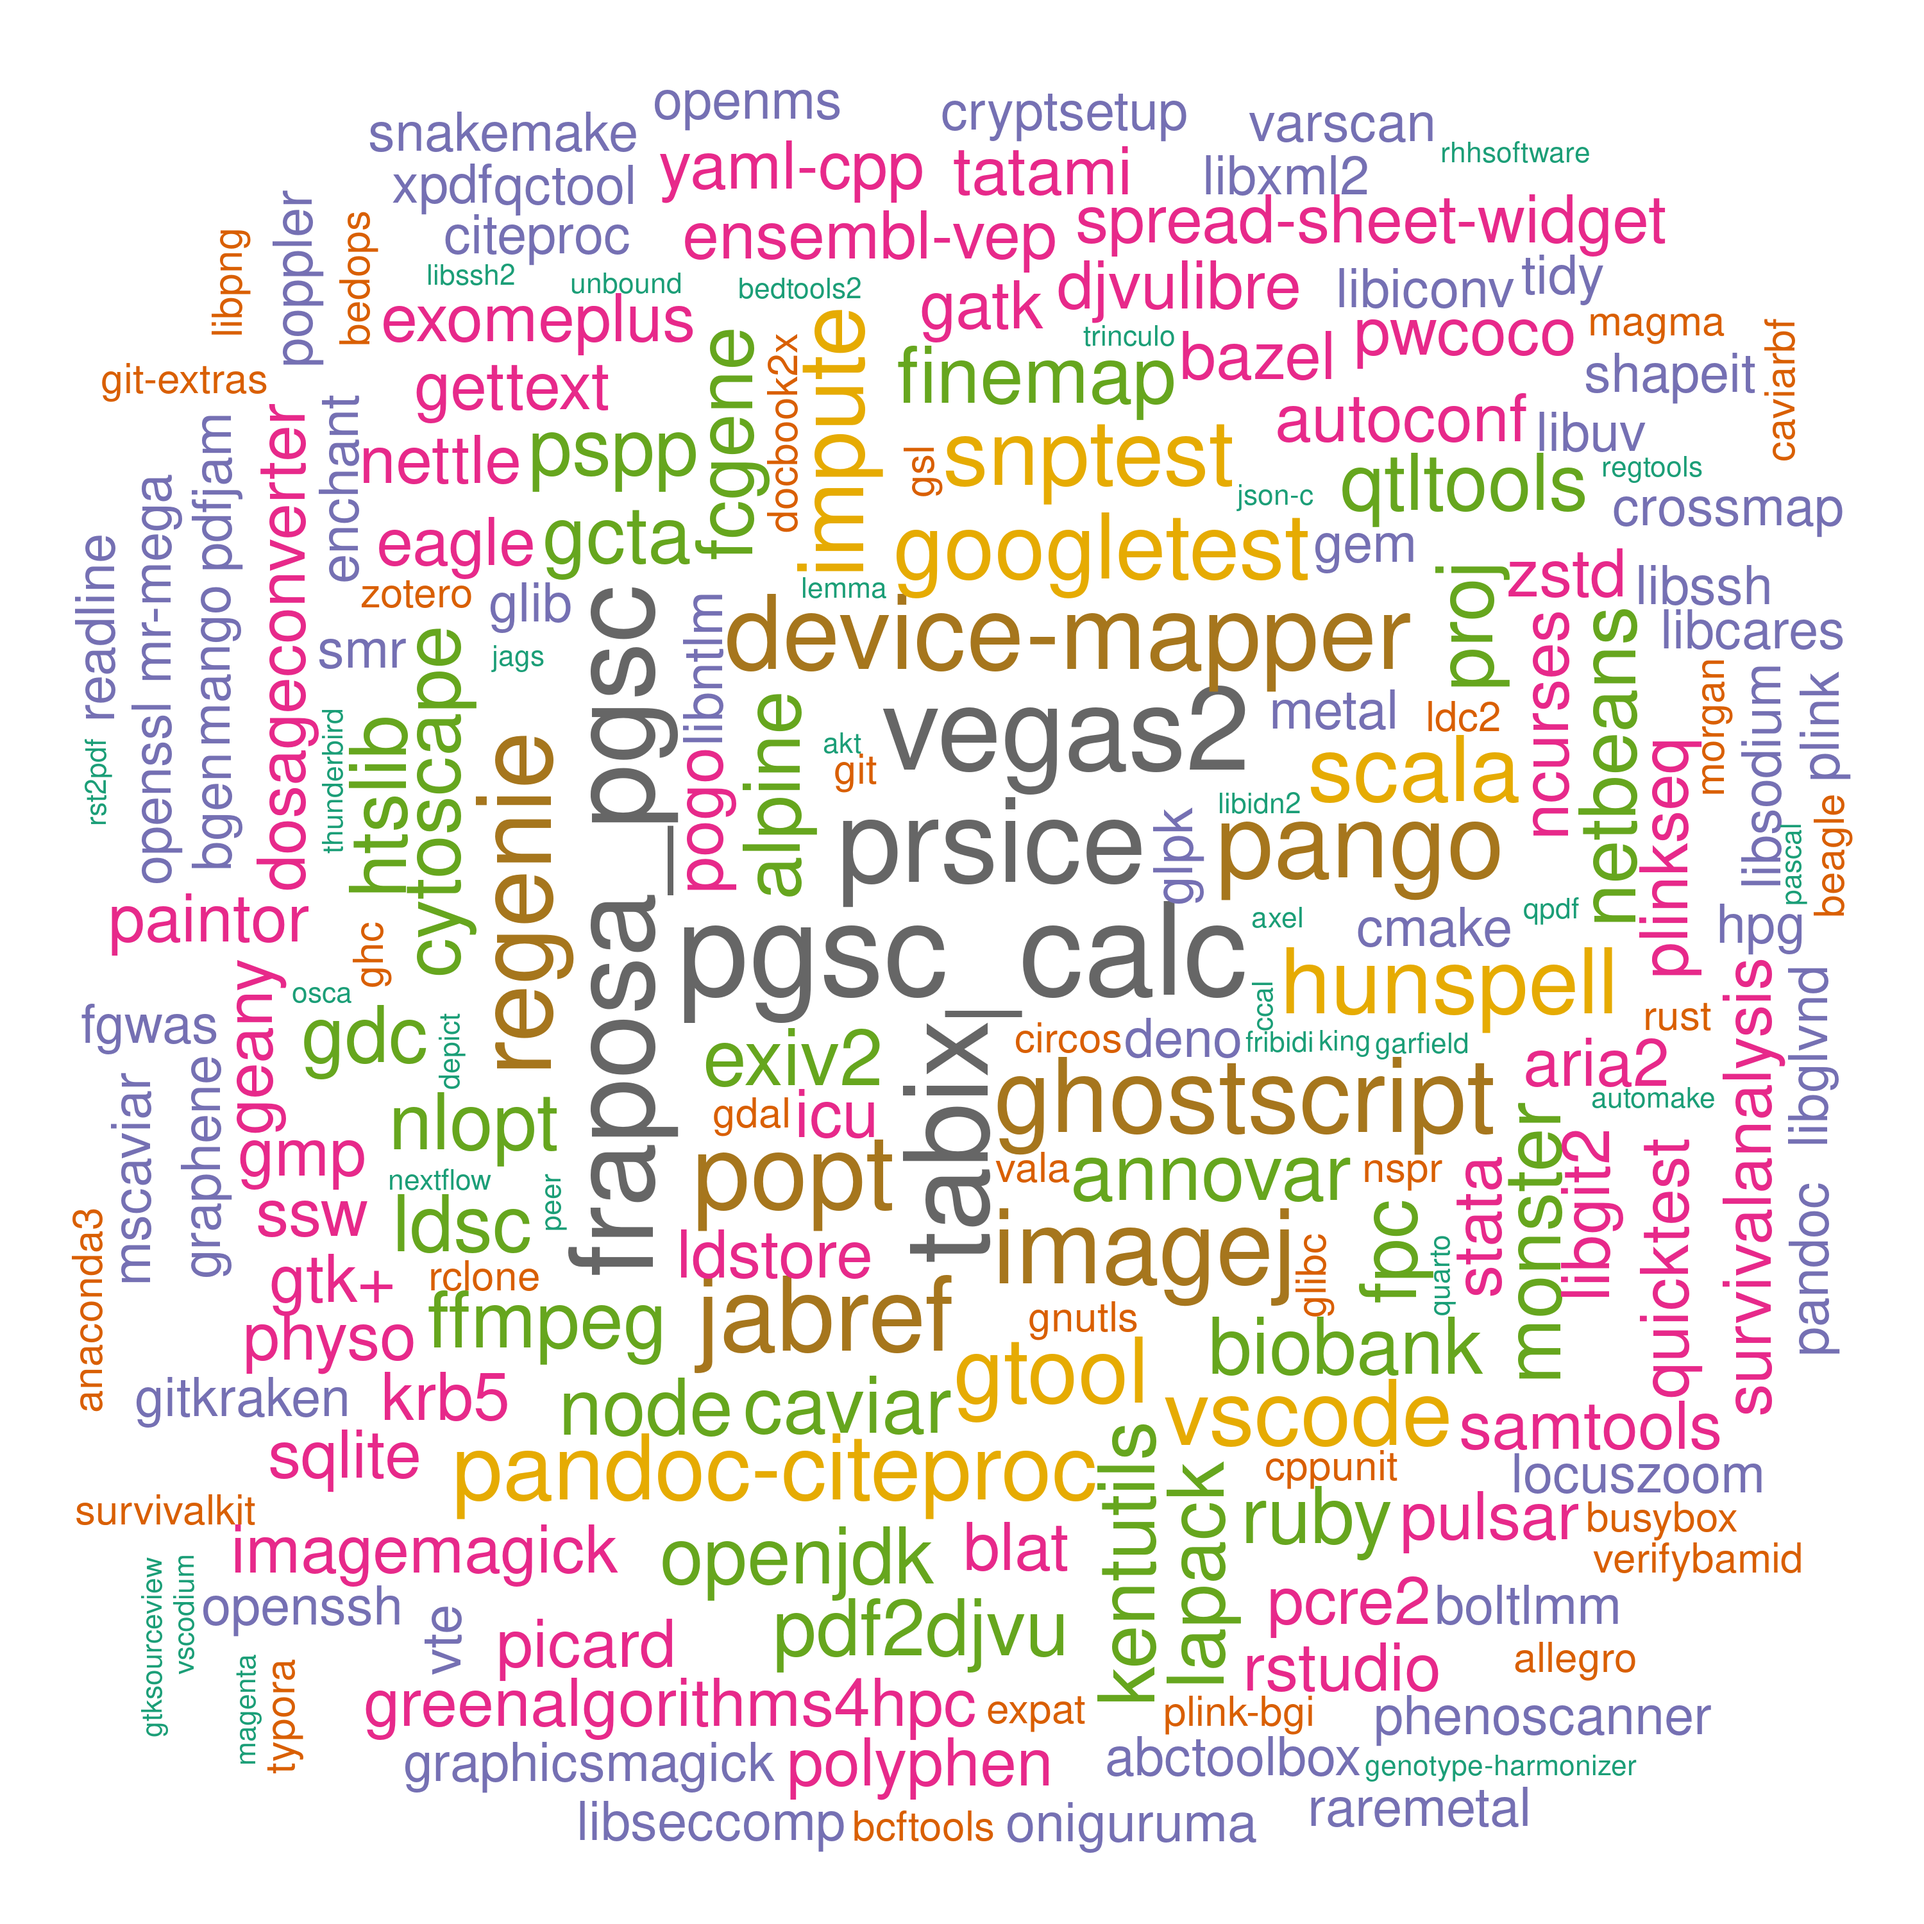
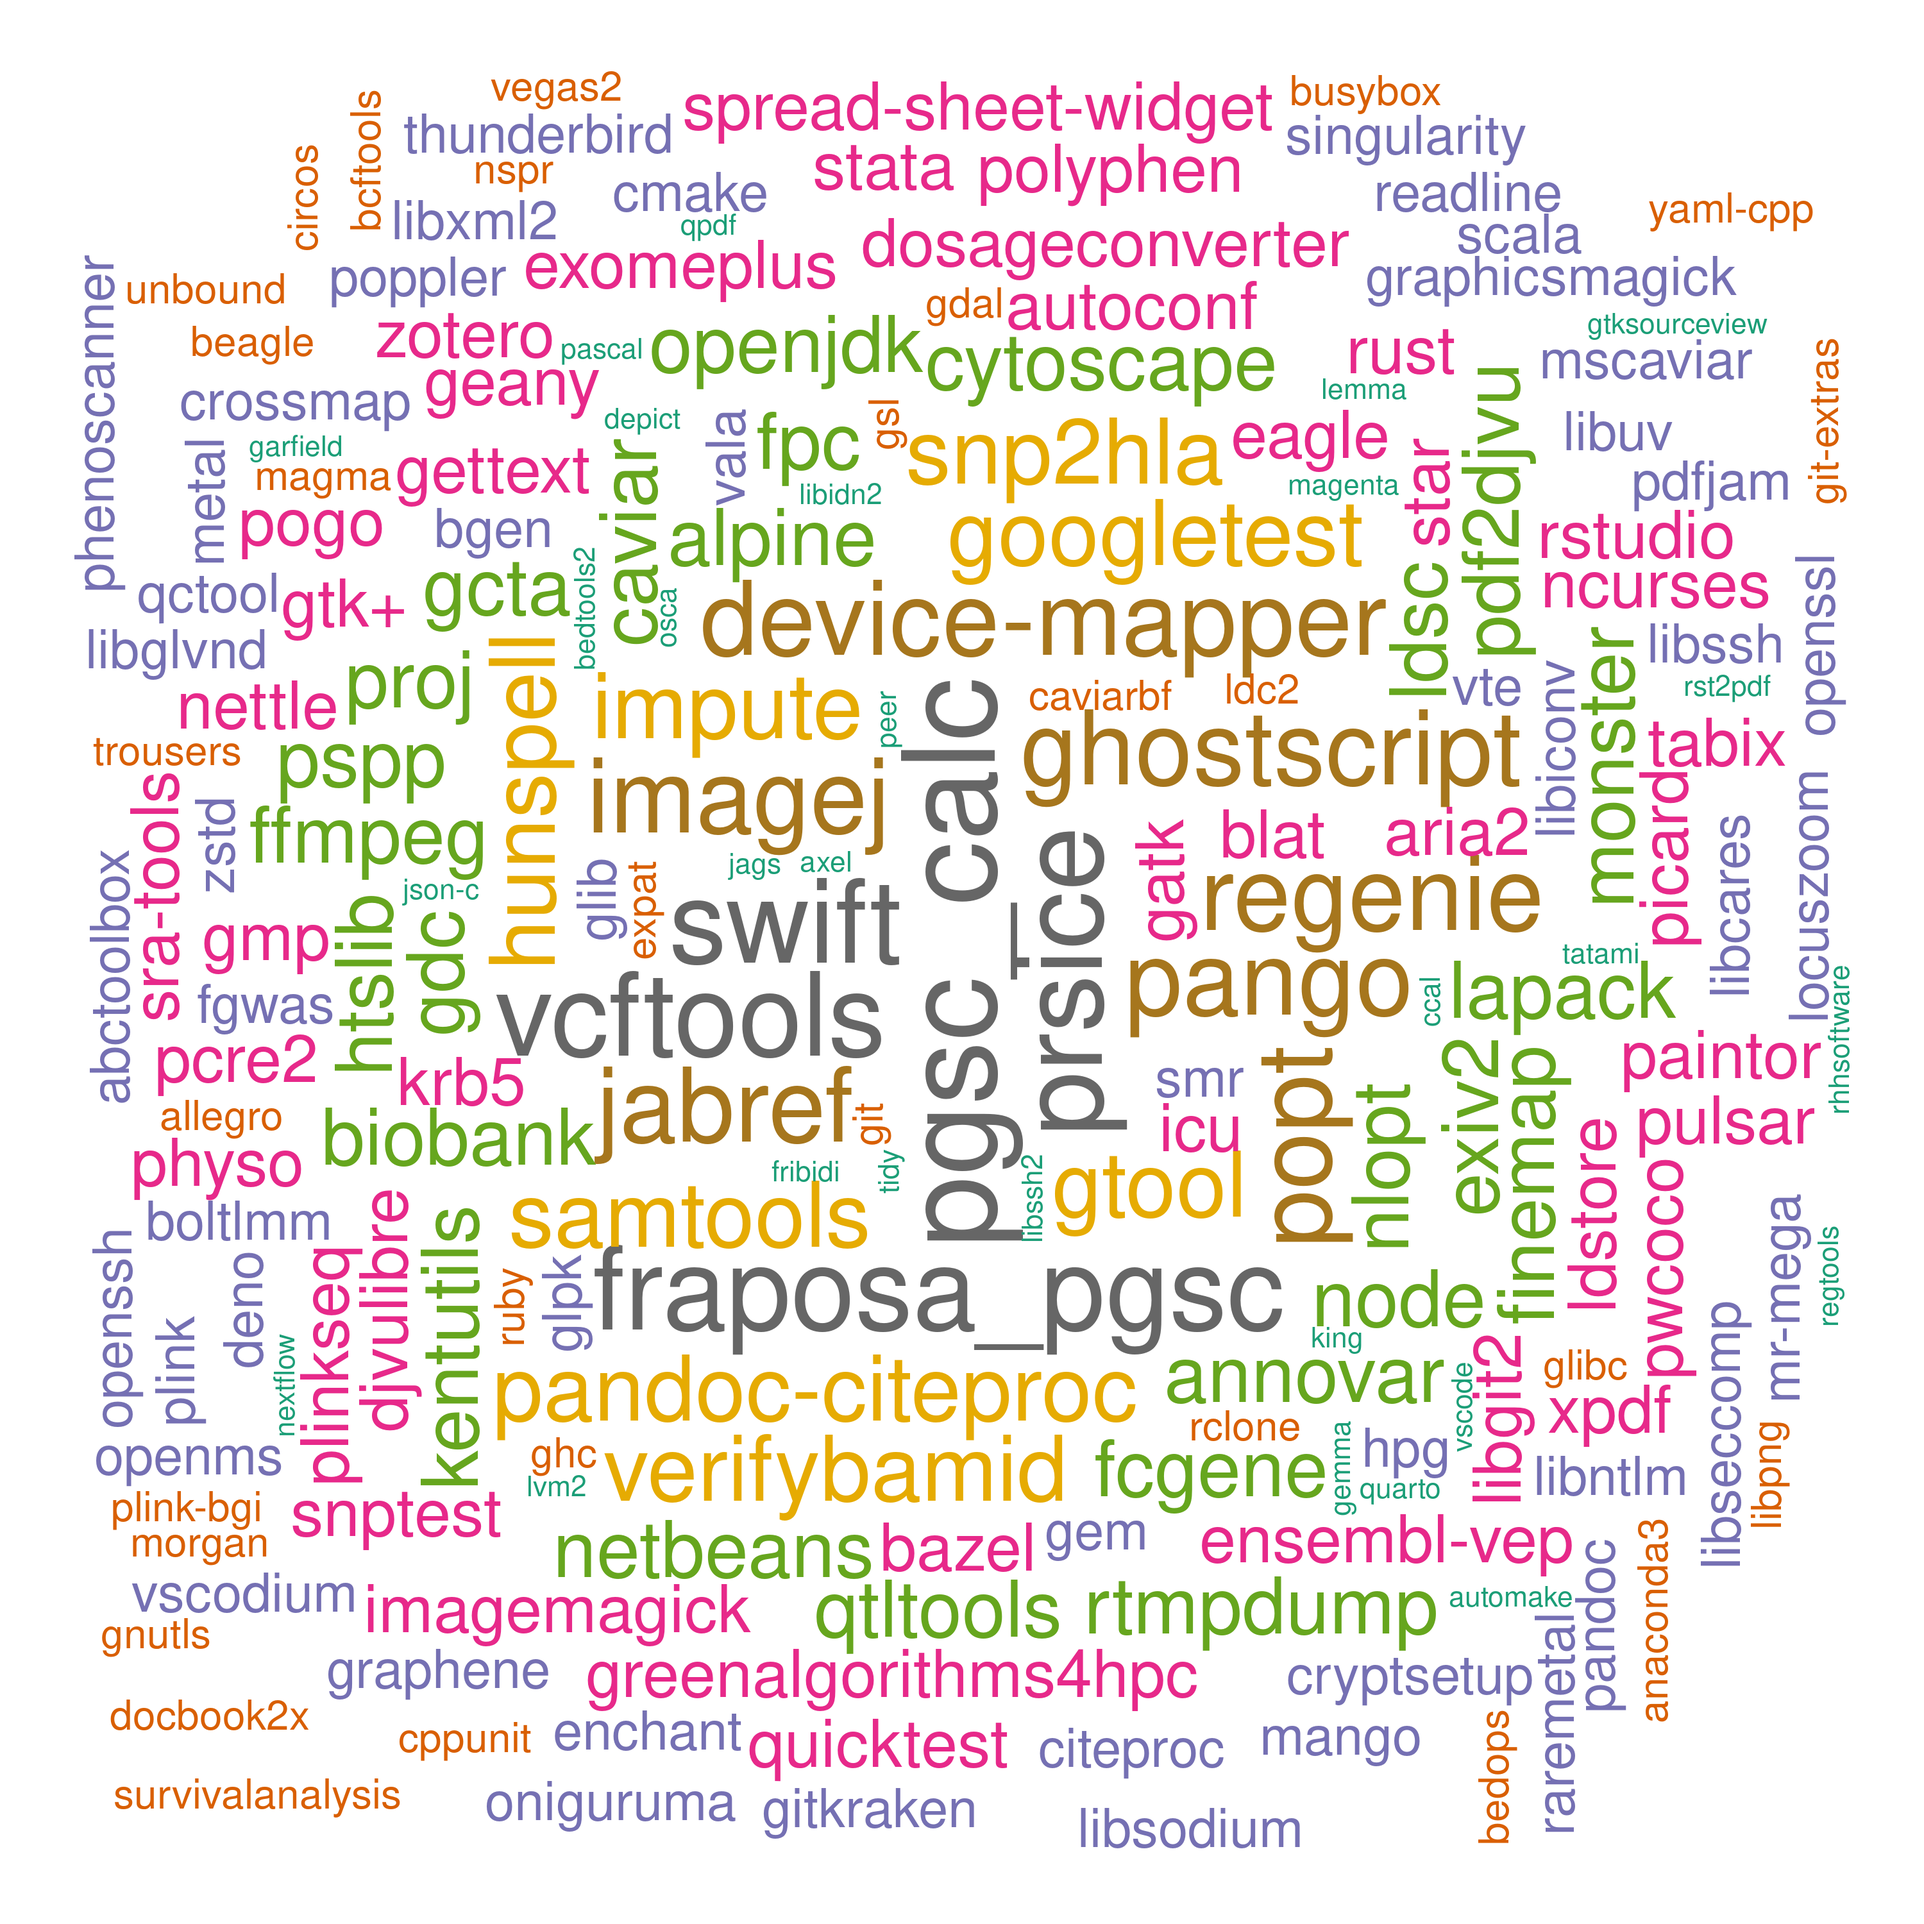
./

Changed region(s): [[0.031, 0.031, 0.961, 0.961]]

diff --git a/systems/setup.md b/systems/setup.md
@@ -244,31 +244,33 @@ All entries are ordered chronologically.
 | ""          | deno/1.40.2-icelake              | Generic              |
 | ""          | quarto/1.4.549                   | Generic              |
 | 2024-02-29  | R/4.3.3                          | Generic[^R]          |
-! 2024-03-01  | glpk/5.0                         | Generic              |
-! 2024-03-02  | glpk/4.57                        | Generic              |
-! 2024-03-04  | rstudio/2023.12.1-402            | Generic              |
-! 2024-03-05  | GitKraken/9.12.0                 | Generic[^gitkraken]  |
-! ""          | automake/1.16.5                  | Generic[^automake]   |
-! ""          | pspp/2.0.0                       | Generic              |
-! 2024-03-09  | Scala/3.3.3                      | Generic              |
-! 2024-03-10  | fpc/3.2.2                        | Generic              |
-! ""          | Swift/5.10                       | Generic              |
-! ""          | pulsar/1.114.0                   | Generic              |
-! ""          | VSCodium/1.87.1.24068            | Generic              |
-! 2024-03-27  | openssl/3.2.1-icelake            | Generic[^openssl]    |
-! ""          | openssh/9.7p1-icelake            | Generic[^openssh]    |
-! 2024-03-31  | ensembl-vep/111-icelake          | Genetics[^vep]       |
-! 2024-04-01  | json-c/0.17-20230812-icelake     | Generic[^json-c]     |
-! ""          | device-mapper/1.02.28-icelake    | Generic              |
-! ""          | LVM2/2.03.23-icelake             | Generic[^LVM2]       |
-! 2024-04-02  | cryptsetup/2.7.1-icelake         | Generic[^cryptsetup] |
-! 2024-04-05  | krb5/1.21.2-icelake              | Generic[^krb5]       |
-! ""          | git/1.44.0-icelake               | Generic[^git]        |
-! ""          | openssl/1.1.1b-icelake           | Generic              |
-! ""          | libssh2/1.11.0-icelake           | Generic              |
-! ""          | libssh/0.10.6-icelake            | Generic              |
-! 2024-04-22  | peer/1.3                         | Generic[^peer]       |
-! 2024-04-29  | ImageMagick/7.1.1-31             | Generic[^ImageMagick]|
+| 2024-03-01  | glpk/5.0                         | Generic              |
+| 2024-03-02  | glpk/4.57                        | Generic              |
+| 2024-03-04  | rstudio/2023.12.1-402            | Generic              |
+| 2024-03-05  | GitKraken/9.12.0                 | Generic[^gitkraken]  |
+| ""          | automake/1.16.5                  | Generic[^automake]   |
+| ""          | pspp/2.0.0                       | Generic              |
+| 2024-03-09  | Scala/3.3.3                      | Generic              |
+| 2024-03-10  | fpc/3.2.2                        | Generic              |
+| ""          | Swift/5.10                       | Generic              |
+| ""          | pulsar/1.114.0                   | Generic              |
+| ""          | VSCodium/1.87.1.24068            | Generic              |
+| 2024-03-27  | openssl/3.2.1-icelake            | Generic[^openssl]    |
+| ""          | openssh/9.7p1-icelake            | Generic[^openssh]    |
+| 2024-03-31  | ensembl-vep/111-icelake          | Genetics[^vep]       |
+| 2024-04-01  | json-c/0.17-20230812-icelake     | Generic[^json-c]     |
+| ""          | device-mapper/1.02.28-icelake    | Generic              |
+| ""          | LVM2/2.03.23-icelake             | Generic[^LVM2]       |
+| 2024-04-02  | cryptsetup/2.7.1-icelake         | Generic[^cryptsetup] |
+| 2024-04-05  | krb5/1.21.2-icelake              | Generic[^krb5]       |
+| ""          | git/1.44.0-icelake               | Generic[^git]        |
+| ""          | openssl/1.1.1b-icelake           | Generic              |
+| ""          | libssh2/1.11.0-icelake           | Generic              |
+| ""          | libssh/0.10.6-icelake            | Generic              |
+| 2024-04-22  | peer/1.3                         | Generic[^peer]       |
+| 2024-04-29  | ImageMagick/7.1.1-31             | Generic[^ImageMagick]|
+| 2024-05-15  | rtmpdump/2.3                     | Generic[^rtmnpdump]  |
+
 
 \* CEU or approved users only.
 
@@ -917,4 +919,19 @@ Rscript -e '
     ./configure --prefix=$CEUADMIN/ImageMagick/7.1.1-31
     make
     make install
+    ```
+[^rtmpdump]: **rtmpdump**
+
+    It is necessary for `RCurl 1.98-1.14`. With `curl-7.63.0-gcc-5.4.0-4uswlql` we could also install `rtracklayer 1.94.0`.
+
+    ```bash
+    wget -qO- https://rtmpdump.mplayerhq.hu/download/rtmpdump-2.3.tgz |\
+    tar xvfz -
+    cd rtmpdump-2.3
+    sed -i 's|/usr/local|/usr/local/Cluster-Apps/ceuadmin/rtmpdump/2.3|' Makefile
+    sed -i 's|/usr/local|/usr/local/Cluster-Apps/ceuadmin/rtmpdump/2.3|' librtmp/Makefile
+    make
+    make install
+    Rscript -e 'install.packages("RCurl")'
+    Rscript -e 'BiocManager::install("rtracklayer")'
     ```

diff --git a/systems/ceuadmin.md b/systems/ceuadmin.md
@@ -8,7 +8,7 @@ The CEU software repository is here, **/usr/local/Cluster-Apps/ceuadmin/**.
 
 ![ceuadmin](ceuadmin.png)
 
-noting that the importance of software is purely random according to $$Poisson(N,\lambda)$$ where $$N=225$$, $$\lambda=3$$.
+noting that the importance of software is purely random according to $$Poisson(N,\lambda)$$ where $$N=226$$, $$\lambda=3$$.
 
 ## Entries
 
@@ -61,17 +61,17 @@ The current list is as follows,
 [173] "qt"                    "qtcreator"             "QTLtools"              "quarto"
 [177] "quicktest"             "R"                     "raremetal"             "rclone"
 [181] "readline"              "regenie"               "regtools"              "RHHsoftware"
-[185] "rst2pdf"               "rstudio"               "ruby"                  "rust"
-[189] "samtools"              "Scala"                 "shapeit"               "singularity"
-[193] "SMR"                   "snakemake"             "SNP2HLA"               "snptest"
-[197] "spread-sheet-widget"   "sqlite"                "sra-tools"             "ssw"
-[201] "STAR"                  "stata"                 "SurvivalAnalysis"      "SurvivalKit"
-[205] "Swift"                 "tabix"                 "tatami"                "thunderbird"
-[209] "tidy"                  "trinculo"              "trousers"              "Typora"
-[213] "unbound"               "vala"                  "VarScan"               "vcftools"
-[217] "VEGAS2"                "verifyBamID"           "VSCode"                "VSCodium"
-[221] "vte"                   "xpdf"                  "yaml-cpp"              "Zotero"
-[225] "zstd"
+[185] "rst2pdf"               "rstudio"               "rtmpdump"              "ruby"
+[189] "rust"                  "samtools"              "Scala"                 "shapeit"
+[193] "singularity"           "SMR"                   "snakemake"             "SNP2HLA"
+[197] "snptest"               "spread-sheet-widget"   "sqlite"                "sra-tools"
+[201] "ssw"                   "STAR"                  "stata"                 "SurvivalAnalysis"
+[205] "SurvivalKit"           "Swift"                 "tabix"                 "tatami"
+[209] "thunderbird"           "tidy"                  "trinculo"              "trousers"
+[213] "Typora"                "unbound"               "vala"                  "VarScan"
+[217] "vcftools"              "VEGAS2"                "verifyBamID"           "VSCode"
+[221] "VSCodium"              "vte"                   "xpdf"                  "yaml-cpp"
+[225] "Zotero"                "zstd"
 ```
 
 These are wrapped up as :star::star::star: **[modules](https://modules.readthedocs.io/en/latest/index.html)** :star::star::star:.

diff --git a/R/rtracklayer.md b/R/rtracklayer.md
@@ -1,0 +1,21 @@
+---
+sort: 29
+---
+
+# rtracklayer
+
+Under cclake, modules `ceuadmin/rtmpdump/2.3` and `curl-7.63.0-gcc-5.4.0-4uswlql` are both required, since `librtmp.so.0` is needed for `RCurl 1.98-1.14` and the latter for `rtracklayer 1.64.0`.
+
+Quoting from <https://cambridge-ceu.github.io/csd3/systems/setup.html>, the details are as follows,
+
+```bash
+wget -qO- https://rtmpdump.mplayerhq.hu/download/rtmpdump-2.3.tgz |\
+tar xvfz -
+cd rtmpdump-2.3
+sed -i 's|/usr/local|/usr/local/Cluster-Apps/ceuadmin/rtmpdump/2.3|' Makefile
+sed -i 's|/usr/local|/usr/local/Cluster-Apps/ceuadmin/rtmpdump/2.3|' librtmp/Makefile
+make
+make install
+Rscript -e 'install.packages("RCurl")'
+Rscript -e 'BiocManager::install("rtracklayer")'
+```

diff --git a/R/tenXplore.md b/R/tenXplore.md
@@ -1,5 +1,5 @@
 ---
-sort: 34
+sort: 35
 ---
 
 # tenXplore

diff --git a/R/SPACox.md b/R/SPACox.md
@@ -1,5 +1,5 @@
 ---
-sort: 33
+sort: 34
 ---
 
 # SPACox

diff --git a/R/snpnet.md b/R/snpnet.md
@@ -1,5 +1,5 @@
 ---
-sort: 31
+sort: 32
 ---
 
 # snpnet

diff --git a/R/SAIGE.md b/R/SAIGE.md
@@ -1,5 +1,5 @@
 ---
-sort: 29
+sort: 30
 ---
 
 # SAIGE

diff --git a/R/sojo.md b/R/sojo.md
@@ -1,5 +1,5 @@
 ---
-sort: 32
+sort: 33
 ---
 
 # sojo

diff --git a/R/xlsx.md b/R/xlsx.md
@@ -1,5 +1,5 @@
 ---
-sort: 35
+sort: 36
 ---
 
 # xlsx

diff --git a/R/sf.md b/R/sf.md
@@ -1,5 +1,5 @@
 ---
-sort: 30
+sort: 31
 ---
 
 # sf
